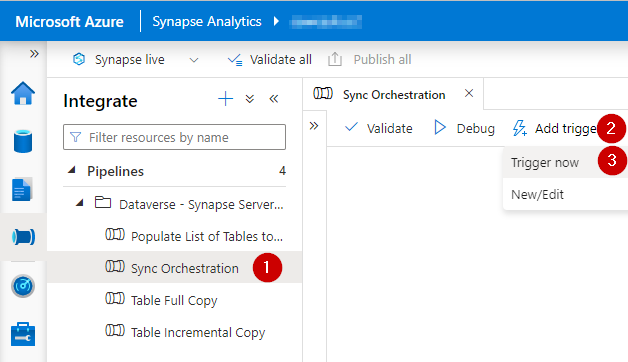
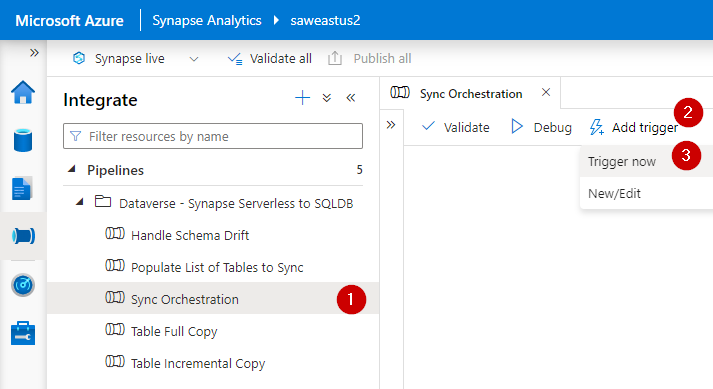
Added schema drift handling, simplified installation

diff --git a/README.md b/README.md
@@ -24,6 +24,14 @@ Deleted records in incrementally copied tables are handled as soft deletes by ad
 
 To avoid read/write contention issues while reading data from files that are being written to by Synapse Link for Dataverse, it is recommended to use data from [read-only hourly snapshots](https://docs.microsoft.com/en-us/power-apps/maker/data-platform/azure-synapse-link-synapse#access-near-real-time-data-and-read-only-snapshot-data-preview). Tables based on snapshot data in Serverless SQL Pool databases are designated with the "_partitioned" suffix. Be sure to reference the _partitioned tables when configuring the source tables in this solution. Note, at the time of this writing, Synapse Link for Dataverse would not create snapshot data for empty tables.
 
+This solution automatically handles common types of schema evolution in the source system. Synapse Link for Dataverse will automatically accommodate newly added columns (as documented [here](https://docs.microsoft.com/en-us/power-apps/maker/data-platform/export-data-lake-faq)). This solution will detect newly-added columns during each pipeline execution and will add corresonding columns to the tables in the target database. Columns deleted from the source system will remain in the target database, but will no longer be updated.
+
+This solution will automatically create several helper objects in the target Azure SQL Database during the first synchronization. These objects will support configuration and logging of the data integration process. Following is the list of helper database objects:
+    * Schemas: orchestration and staging
+    * Tables: orchestration.ProcessingControl and orchestration.ProcessingLog
+    * Stored Procedures: orchestration.GetTablesToProcess, orchestration.GeneratePrimaryKey and orchestration.SchemaDriftAddColumns
+
+
 ### Prerequisites
 1. You have [provisioned a Synapse Analytics Workspace](https://docs.microsoft.com/en-us/azure/synapse-analytics/quickstart-create-workspace).
 1. You have [configured Synapse Link for Dataverse to export relevant entities to a Synapse Analytics Workspace](https://docs.microsoft.com/en-us/power-apps/maker/data-platform/azure-synapse-link-synapse). This solution requires table export to be configured in *append-only mode* as described in the following [article](https://docs.microsoft.com/en-us/power-apps/maker/data-platform/azure-synapse-link-advanced-configuration#in-place-updates-vs-append-only-writes).
@@ -33,44 +41,38 @@ To avoid read/write contention issues while reading data from files that are bei
 ### Implementation
 1. Provision an Azure SQL Database to serve as the target of your Dataverse data. [See documentation](https://docs.microsoft.com/en-us/azure/azure-sql/database/single-database-create-quickstart?view=azuresql&tabs=azure-portal). Ensure that the "Allow Azure services and resources to access this server" setting is enabled. [See documentation](https://docs.microsoft.com/en-us/azure/azure-sql/database/firewall-configure?view=azuresql)
 
-2. Download the [SQL Script that defines relevant database objects from this repository](SQL/CreateDatabaseObjects.sql) from this repository to your local computer.
+2. Grant your Synapse Analytics Workspace access to your target Azure SQL Database by adding the managed identity of your Synapse Analytics Workspace to the db_owner role in the Azure SQL Database. [See additional documentation](https://docs.microsoft.com/en-us/azure/data-factory/connector-azure-sql-database?tabs=data-factory#managed-identity). You may use the following SQL statement: 
 
-3. Create database objects in the target Azure SQL Database that will support configuration and logging of the data integration process by executing the T-SQL script downloaded in the previous step. The script will create.
-    * Schemas: orchestration and staging
-    * Tables: orchestration.ProcessingControl and orchestration.ProcessingLog
-    * Stored Procedure: orchestration.GetTablesToProcess
-
-4. Grant your Synapse Analytics Workspace access to your target Azure SQL Database by adding the managed identity of your Synapse Analytics Workspace to the db_owner role in the Azure SQL Database. [See additional documentation](https://docs.microsoft.com/en-us/azure/data-factory/connector-azure-sql-database?tabs=data-factory#managed-identity). You may use the following SQL statement: 
-```
+```SQL
 CREATE USER [YourSynapseAnalyticsWorkspaceName] FROM EXTERNAL PROVIDER
 GO
 ALTER ROLE [db_owner] ADD MEMBER [YourSynapseAnalyticsWorkspaceName]
 GO
 ```
-5. Ensure that the managed identity of your Synapse Analytics Workspace has access to the storage account container where your Dataverse data is stored by adding it to the *Storage Blob Data Reader* role. [See additional documentation](https://docs.microsoft.com/en-us/azure/synapse-analytics/security/how-to-grant-workspace-managed-identity-permissions). 
+3. Ensure that the managed identity of your Synapse Analytics Workspace has access to the storage account container where your Dataverse data is stored by adding it to the *Storage Blob Data Reader* role. [See additional documentation](https://docs.microsoft.com/en-us/azure/synapse-analytics/security/how-to-grant-workspace-managed-identity-permissions). 
 
-6. Download the [Synapse Pipeline template (packaged as a .zip file)](Pipelines/Sync%20Orchestration.zip) from this repository to your local computer.
+4. Download the [Synapse Pipeline template (packaged as a .zip file)](Pipelines/Sync%20Orchestration.zip) from this repository to your local computer.
 
-7. Import the zip file with the downloaded Synapse Pipeline template to your Synapse Analytics Workspace, as illustrated below. 
+5. Import the zip file with the downloaded Synapse Pipeline template to your Synapse Analytics Workspace, as illustrated below. 
 ![Import pipelines from template](Images/ImportPipelineFromTemplate.png)
 
-8. During the template import process, configure linked services for target Azure SQL DB and the source Serverless SQL Pool endpoint (as illustrated below). 
+6. During the template import process, configure linked services for target Azure SQL DB and the source Serverless SQL Pool endpoint (as illustrated below). 
 ![Import pipelines from template](Images/ConfigureLinkedServices.png)
 
-9. Once the import process completes, you will find four pipelines in the *Dataverse - Synapse Serverless to SQLDB* folder, as illustrated below:
+7. Once the import process completes, you will find five pipelines in the *Dataverse - Synapse Serverless to SQLDB* folder, as illustrated below:
 ![Imported pipelines](Images/ImportedPipelines.png)
 
-10. By default, the solution is designed to perform automatic discovery of tables available in the source Serverless SQL database. Any table with the suffix of "_partitioned", as well as certain metadata tables (StateMetadata, StatusMetadata, OptionsetMetadata, GlobalOptionsetMetadata and TargetMetadata) will be automatically added to the *orchestration.ProcessingControl* table. If you prefer to manually load the list of tables required for synchronization, please set the *AutoPopulateListOfTablesToSync* parameter in the *Sync Orchestration* pipeline to *false*. Then, review instructions for manually loading the ProcessingControl table in the *Next Steps and Additional Considerations* section below.
+8. By default, the solution is designed to perform automatic discovery of tables available in the source Serverless SQL database. Any table with the suffix of "_partitioned", as well as certain metadata tables (StateMetadata, StatusMetadata, OptionsetMetadata, GlobalOptionsetMetadata and TargetMetadata) will be automatically added to the *orchestration.ProcessingControl* table. If you prefer to manually load the list of tables required for synchronization, please set the *AutoPopulateListOfTablesToSync* parameter in the *Sync Orchestration* pipeline to *false*. Then, review instructions for manually loading the ProcessingControl table in the *Next Steps and Additional Considerations* section below.
 
-11. By default, the solution will automatically add a clustered primary key index to each incrementally-updated table that does not have a primary key already. These primary keys will improve the efficiency of the incremental sync process. If you prefer to manage primary key creation manually, you may disable automatic primary key generation by setting the *AutoGeneratePrimaryKeys* parameter in the *Sync Orchestration* pipeline to *false*.
+9. By default, the solution will automatically add a clustered primary key index to each incrementally-updated table that does not have a primary key already. These primary keys will improve the efficiency of the incremental sync process. If you prefer to manage primary key creation manually, you may disable automatic primary key generation by setting the *AutoGeneratePrimaryKeys* parameter in the *Sync Orchestration* pipeline to *false*.
 
-12. Trigger the *Sync Orchestration* pipeline, as illustrated below.
+10. Trigger the *Sync Orchestration* pipeline, as illustrated below.
 ![Trigger orchestration pipeline now](Images/TriggerNow.png)
 
-13. Monitor pipeline execution, as illustrated below.
+11. Monitor pipeline execution, as illustrated below.
 ![Trigger orchestration pipeline now](Images/MonitorPipelineRuns.png)
 
-14. Create a scheduled trigger to execute the  *Sync Orchestration* pipeline in an automated manner on a desired schedule. Note, since tables based on hourly snapshots of Dataverse data are the recommended data source for this solution, pipeline execution should be scheduled no more frequently than once per hour.
+12. Create a scheduled trigger to execute the  *Sync Orchestration* pipeline in an automated manner on a desired schedule. Note, since tables based on hourly snapshots of Dataverse data are the recommended data source for this solution, pipeline execution should be scheduled no more frequently than once per hour.
 
 ## Next Steps and Additional Considerations
 * If you chose to disable the automatic source table discovery feature by setting the *AutoPopulateListOfTablesToSync* parameter in the *Sync Orchestration* pipeline to *false*, please manually configure the data export process. You may do so by adding a list of tables that need to be synchronized to the `orchestration.ProcessingControl` table. For each table configuration record, please specify:
@@ -114,9 +116,9 @@ GO
 
 * If the *AutoPopulateListOfTablesToSync* parameter in the *Sync Orchestration* pipeline is set to *true*, any new tables added to your Synapse Link for Dataverse will be automatically added to the ProcessingControl list. Similarly, you may manually add new tables to be synchronized by this solution at any time. Simply add the configuration details for the desired tables to the `orchestration.ProcessingControl` table. The solution will automatically create a table in the destination datablase and will perform a full load of the table during the next scheduled pipeline execution. Incremental synchornizations will continue in the future (if the table is configured for incremental sync). As discussed above, please manually create indexes and any auxiliary views after the table has been created.
 
-* Schema evolution requires special consideration. While Synapse Link for Dataverse will automatically accommodate newly added columns (as documented [here](https://docs.microsoft.com/en-us/power-apps/maker/data-platform/export-data-lake-faq)), this solution is not designed to accommodate new columns. If a new column has been added to a Dataverse entity, you may handle it by:
-    * Manually altering the definition of the table in the target SQL Database (recommended)
-    * Dropping the table in the target SQL Database and deleting all records in the orchestration.ProcessingLog table related to the affected table. The table will be re-added and fully loaded with data during the next scheduled synchronization.
+* As previously discussed, common schema evolution scenarios (i.e., columns being added or deleted) are handled automatically. However, other potential scenarios, such as data type changes will need to be handled manually. Consider the following approaches:
+    * Manually alter the definition of the table in the target SQL Database (recommended)
+    * Drop the table in the target SQL Database and delet all records in the orchestration.ProcessingLog table related to the affected table. The table will be re-added and fully loaded with data during the next scheduled synchronization.
 
 * If desired, consider hardening security settings of the implemented solution, which may include:
     * Applying more restrictive firewall rules to the Azure SQL Server hosting your target database
